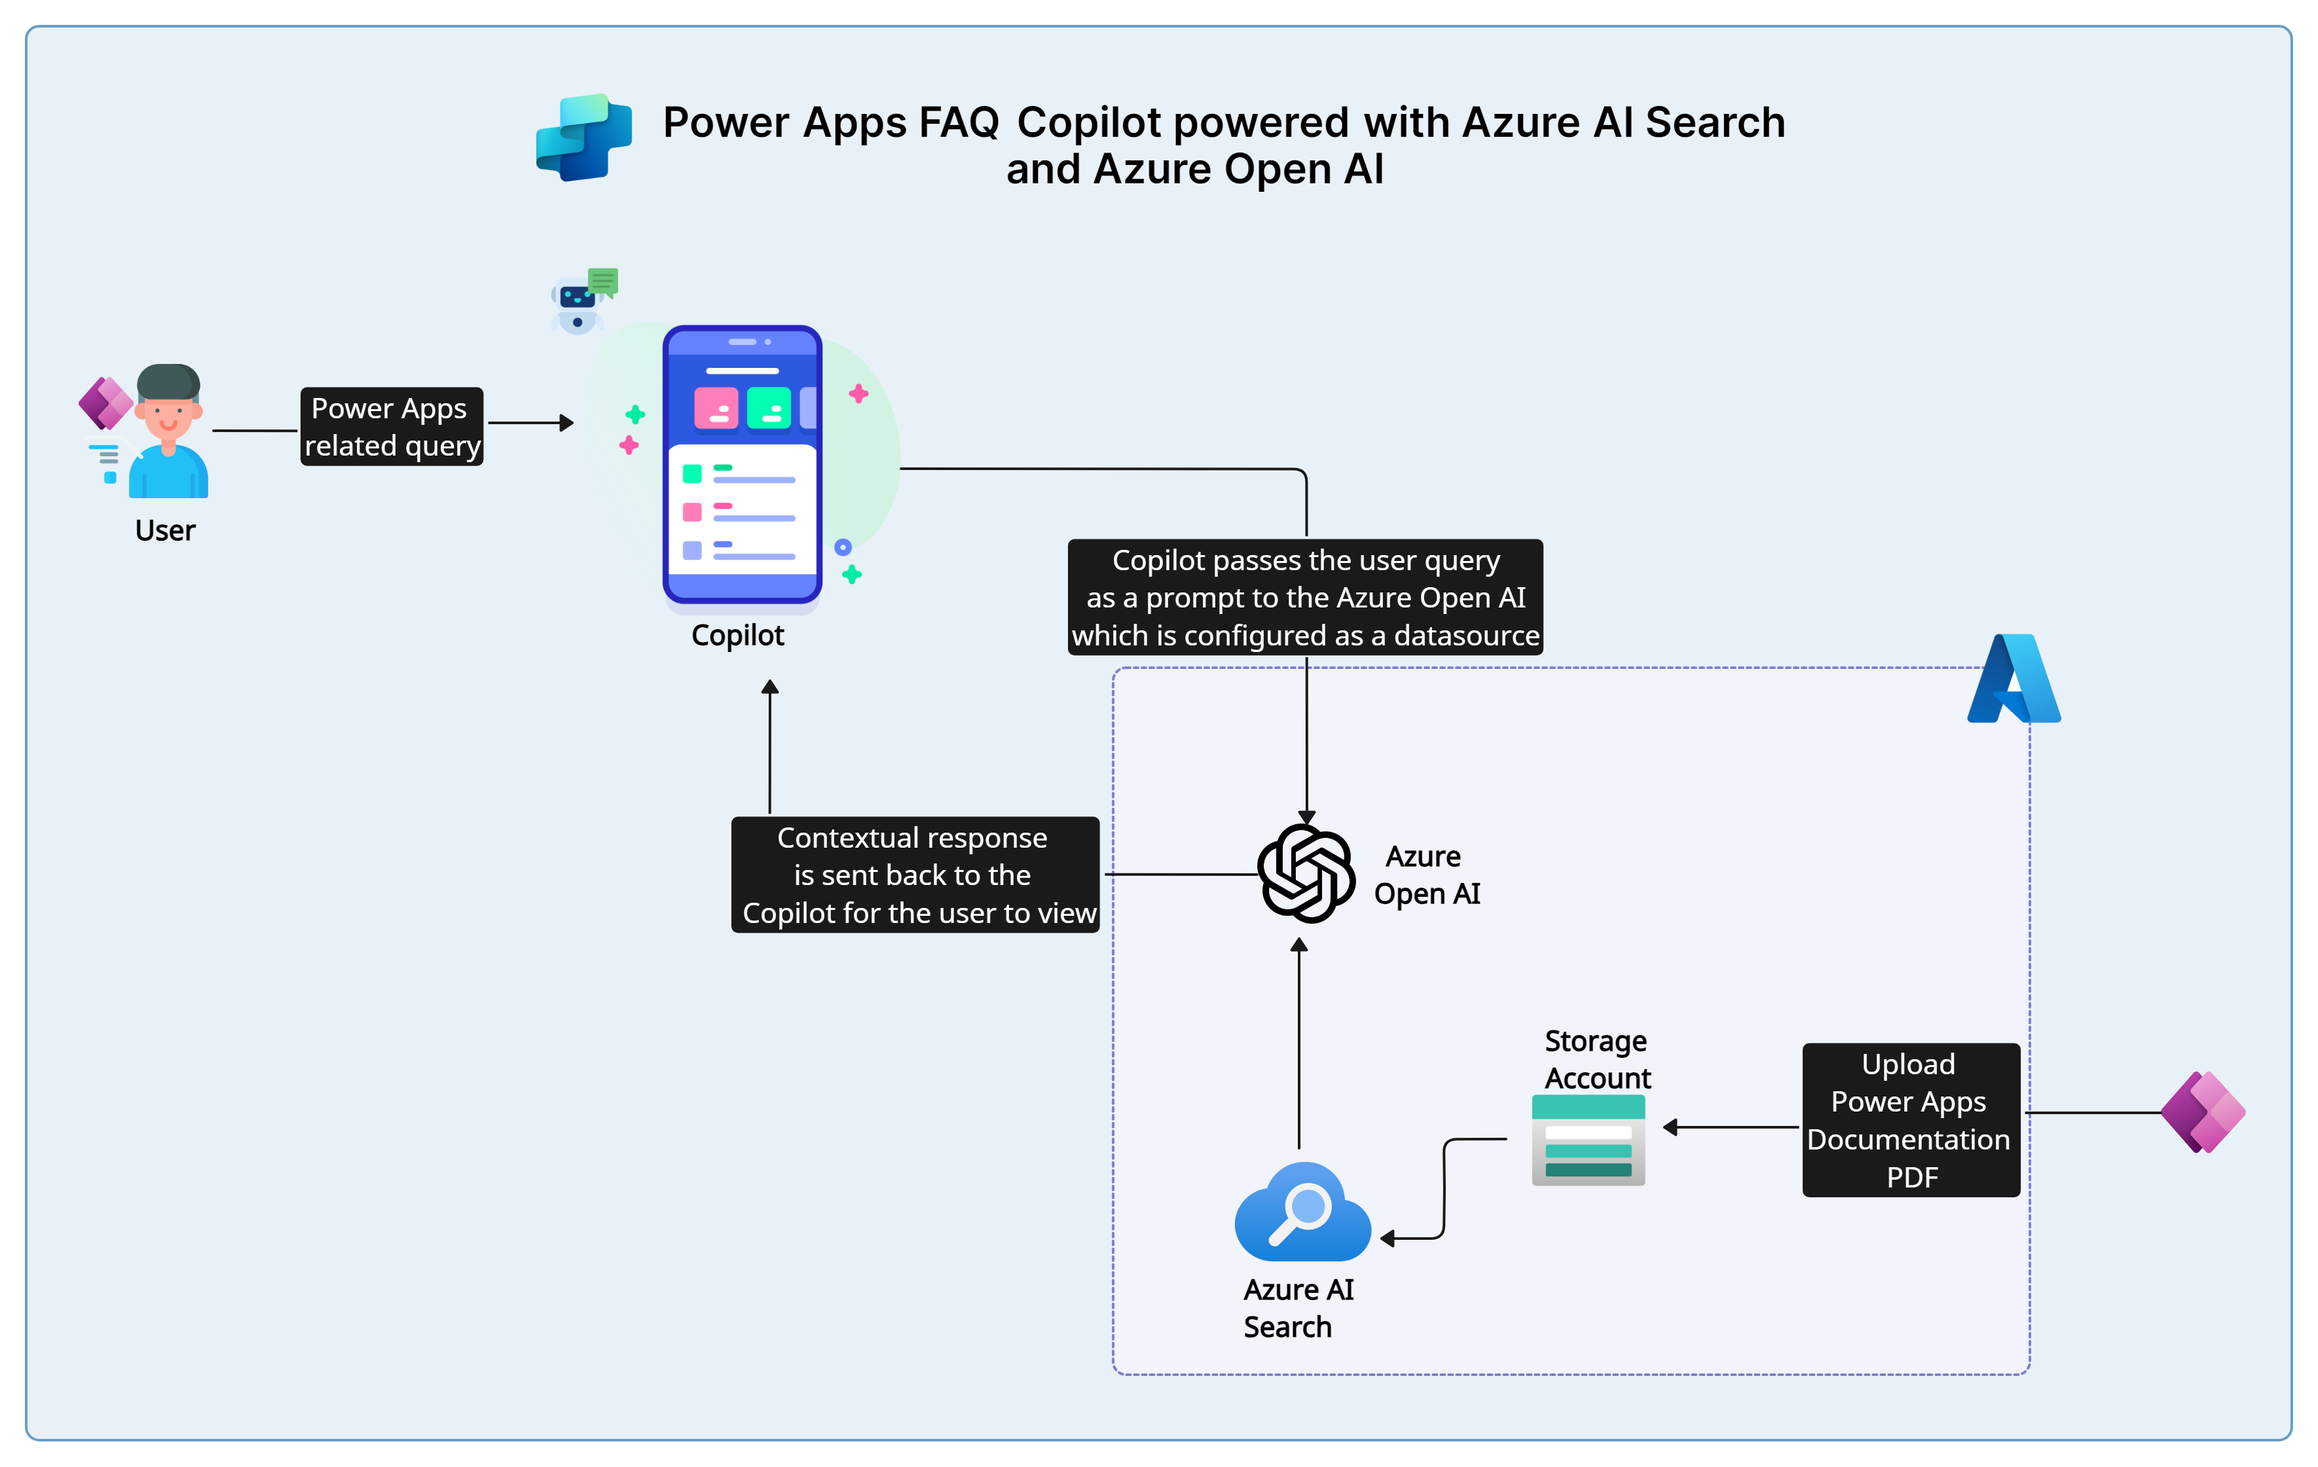
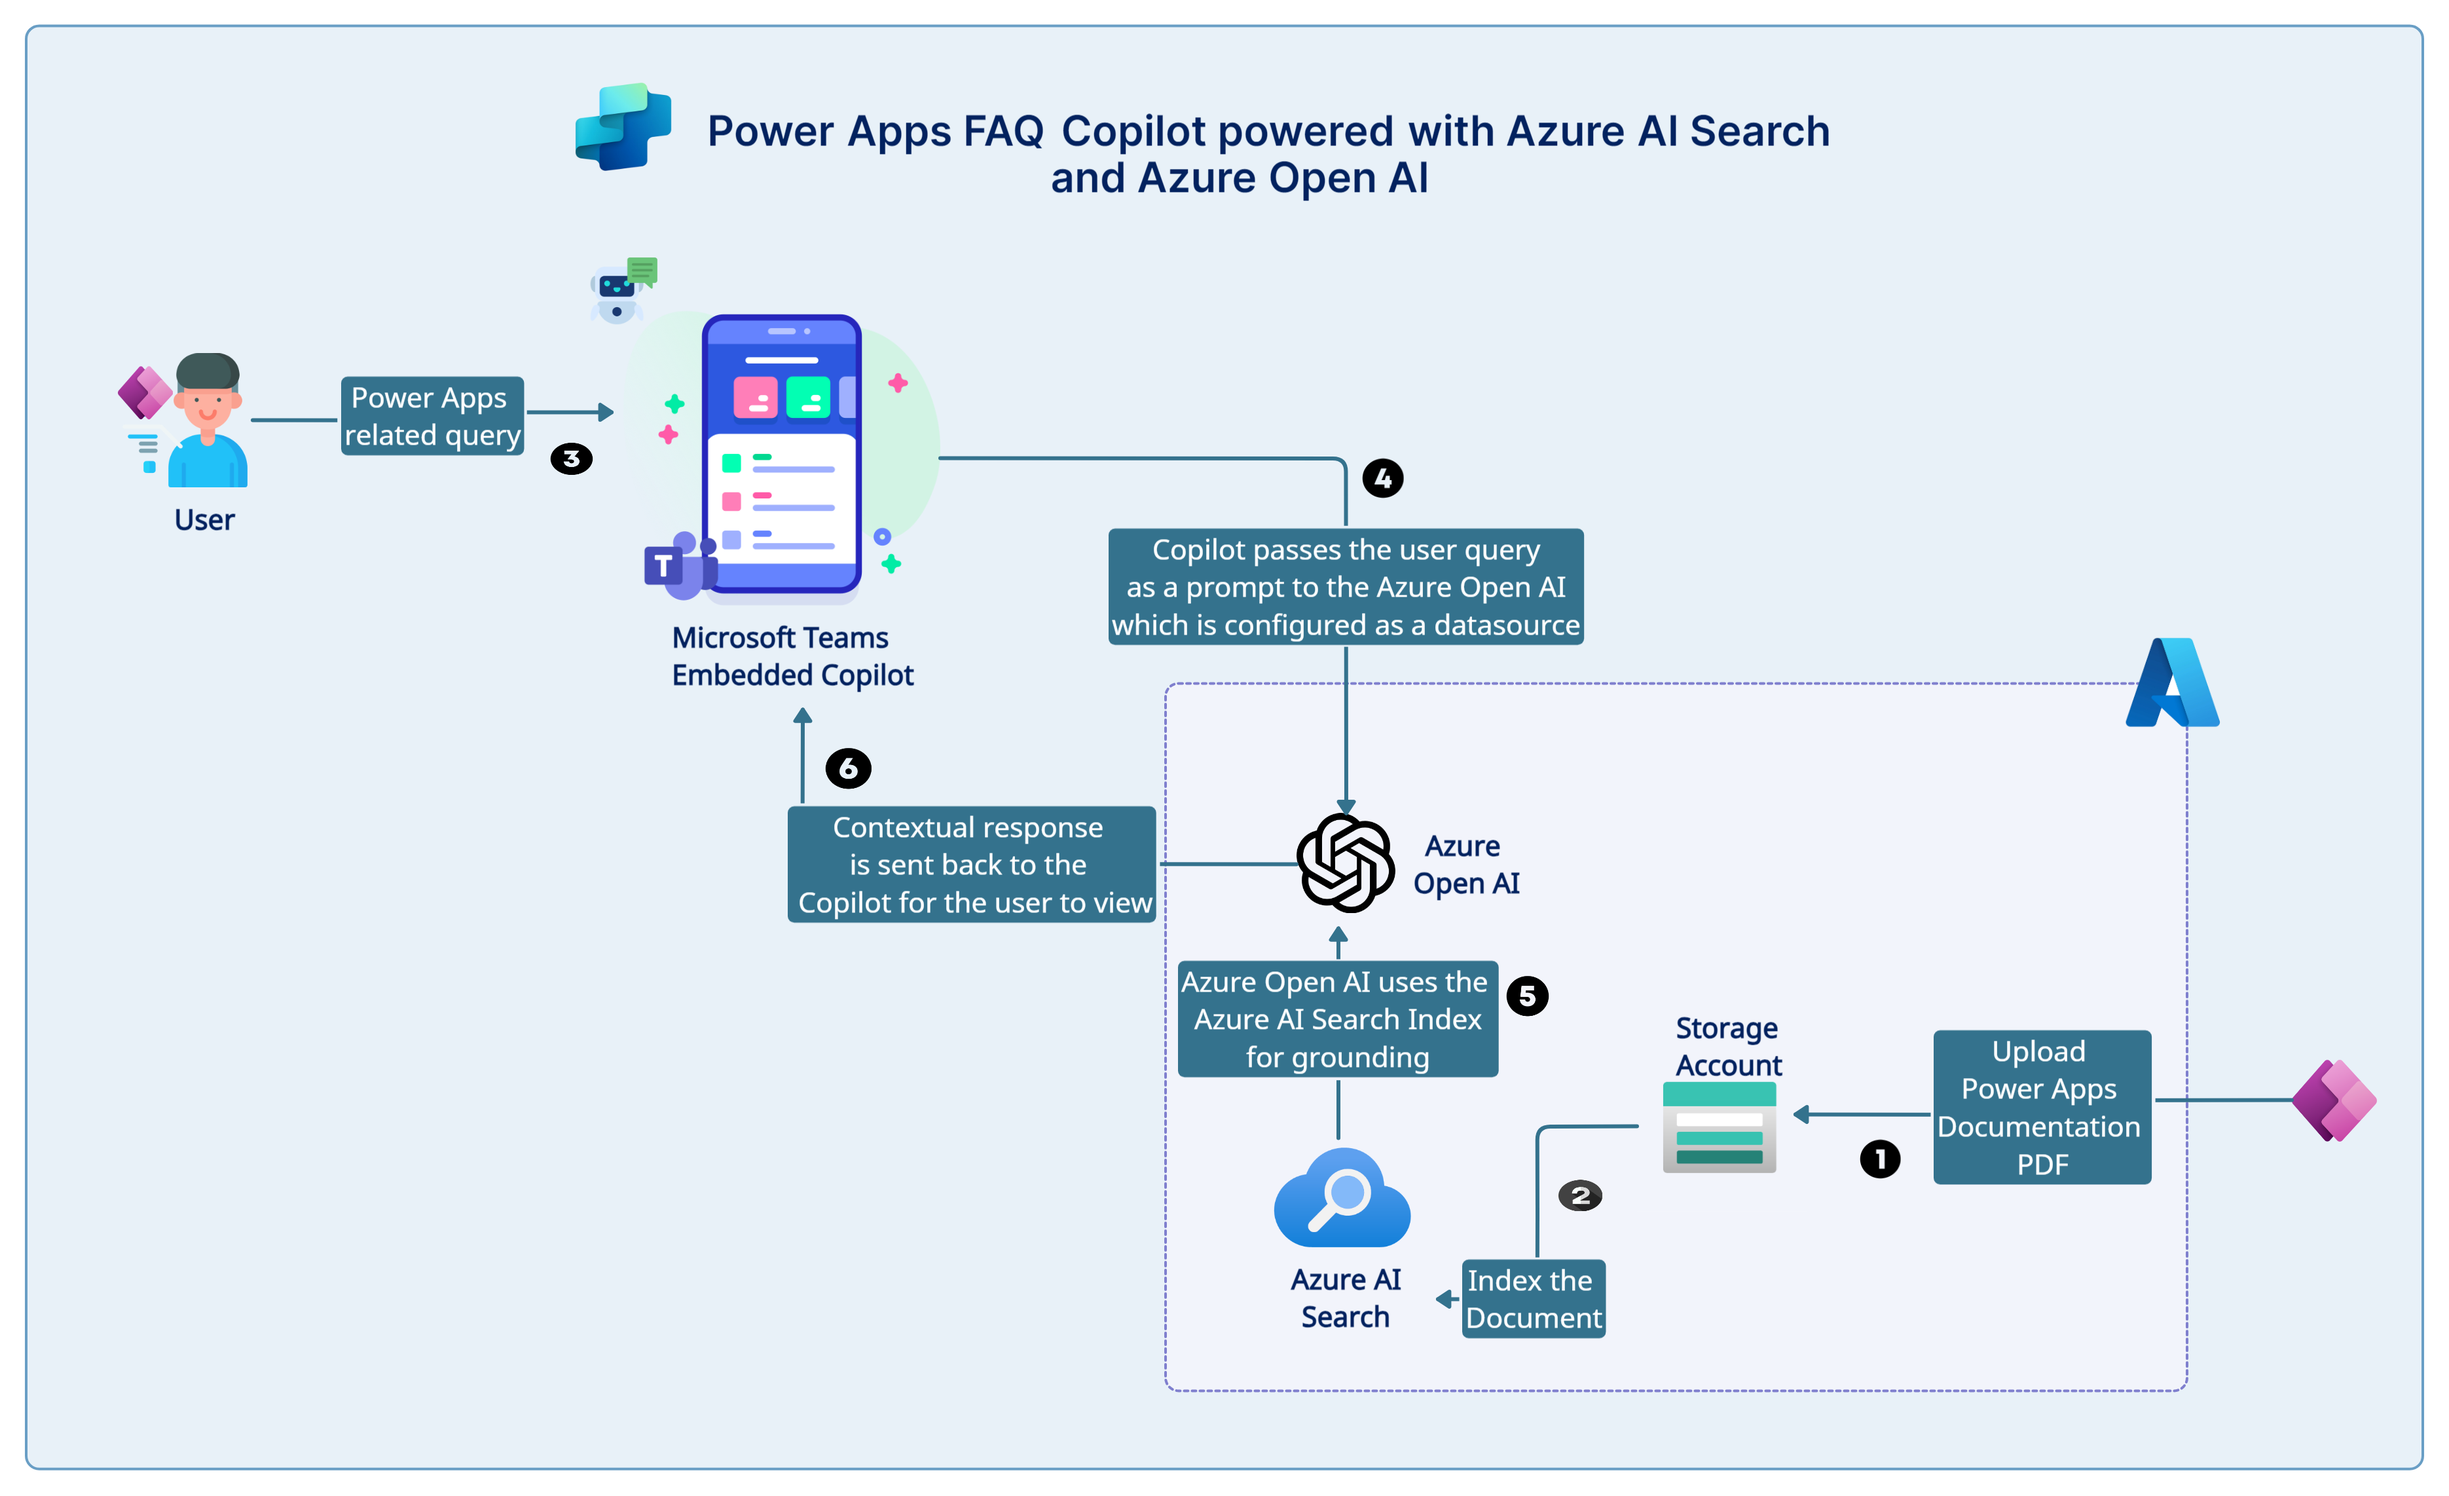
New Blog

diff --git a/_posts/2024-08-06-Copilot-Azure-OpenAI.md b/_posts/2024-08-06-Copilot-Azure-OpenAI.md
@@ -21,11 +21,11 @@ In this blog we will see how to create a Power Apps FAQ copilot utilizing the of
 
 The overall process flow that we will see in this explanation is as follows : 
 
-1. **User Interaction**: A user initiates a query related to Power Apps via the Copilot interface.
-2. **Copilot Processing**: The Copilot captures the user's query and passes it as a prompt to the Azure OpenAI, which is configured as a datasource.
-3. **Azure OpenAI Processing**: Azure OpenAI processes the query using its generative capabilities, accessing the indexed Power Apps documentation stored in Azure AI Search.
-4. **Azure AI Search Integration**: Azure AI Search retrieves relevant information from the uploaded Power Apps documentation PDF, stored in a storage account.
-5. **Contextual Response**: The Azure OpenAI generates a contextual response based on the retrieved information and sends it back to the Copilot.
+1. **Power Apps Documentation** : PDF is uploaded to Azure Storage account
+2. **Index the Document** : Azure AI Search indexes the document for easy retrieval
+3. **User Interaction**: A user initiates a query related to Power Apps via the Copilot interface.
+4. **Copilot Processing**: The Copilot captures the user's query and passes it as a prompt to the Azure OpenAI, which is configured as a datasource.
+5. **Grounding** :  Azure OpenAI processes the query using its generative capabilities, accessing the indexed Power Apps documentation stored in Azure AI Search.
 6. **User Display**: The Copilot displays the contextual response to the user, providing accurate and detailed answers to their Power Apps-related queries.
 
 This integration allows users to get precise answers to their queries by leveraging the power of Azure's AI services, making it a valuable tool for enhancing productivity and knowledge access.
@@ -40,9 +40,9 @@ Watch the demo video below to see how the Power Apps FAQ Copilot works.
 
 ## Prerequisites
 Before diving into the implementation, ensure you have the following:
-- An active Azure subscription.
-- Access to Microsoft Copilot Studio.
-- Power Apps Documentation PDF.
+- An active **Azure subscription**.
+- Access to **Microsoft Copilot Studio**.
+- **Power Apps Documentation PDF** from Microsoft Learn site.
 
 ## Step-by-Step Implementation
 
